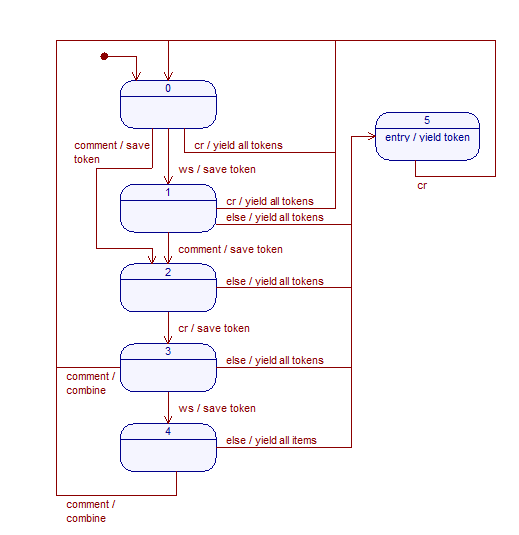
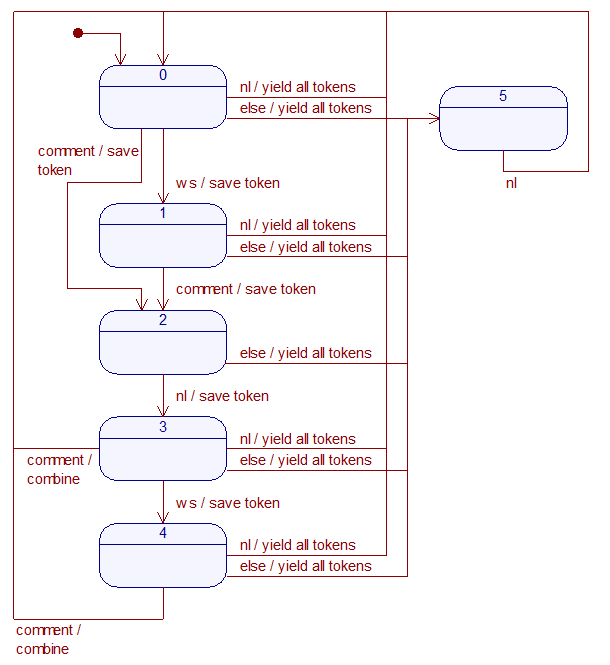
Updated diagram to reflect code Updated state machine in code to catch a few more cases Made it easier to switch between test and run code

diff --git a/pyg.py b/pyg.py
@@ -1,4 +1,3 @@
-
 # -*- coding: utf-8 -*-<br />
 # <h1>Overview</h1>
 # 
@@ -104,7 +103,7 @@
 #     The program consists of two separate portions (code to HTML and HTML
 #     to code) with a bit of glue code, supplemented with tests.<br />
 # 
-# <h2>Code to HTML</h2>
+# <h2><a name="Code_to_HTML"></a>Code to HTML</h2>
 #     The code to HTML link consists of modifications to <a href="http://pygments.org/">Pygments</a>, a wonderful source
 #     hilighter. In particular:<br />
 # <ol>
@@ -124,7 +123,7 @@ import re
 #  states,
 # this uses Pygments to do most of the work, adding only a formatter
 #  to that library. Therefore, to use this class, simply select this class
-#  as the formatter for Pygments (see example <a>below</a>).<br />
+#  as the formatter for Pygments (see an example <a href="#def_CodeToHtml">below</a>).<br />
 class CodeToHtmlFormatter(HtmlFormatter):
     # <a name="typeset_comments_in_a_proportional_font"></a>The first element of the class introduces a proportional font to the formatter. This sort of change really belongs in a <a href="http://pygments.org/docs/styles/">style</a>, but the current style <a href="http://pygments.org/docs/styles/#style-rules">framework</a> don't provide a way to specify this. Rather than introduce this change, I instead modified the way that the Pygments style was used by the formatter. Specifially, I copied the <code>_create_stylesheet</code>  routine verbatim from Pygments then added <a href="#insertedCode">code</a> to typeset comments in a proportional font. 
     def _create_stylesheet(self):
@@ -175,7 +174,7 @@ class CodeToHtmlFormatter(HtmlFormatter):
                 
     # <a name="merge_comments"></a>This routine takes tokens as its input, combining multiple lines of single-line comments separated
     # only by a newline into a single comment token. It's structured as a state machine, per the diagram below. Essentially, the machine looks for a multiline comment, which consists of: a newline, optional whitespace, a comment, a newline, optional whitespace, a comment. When this sequence is found such that the two whitespaces are identical, the two comments are combined with any intervening whitespace and the search continues. Additional comments:<br />
-    # <ul><li>Transitions away from the sequence must be handled carefully (see the diagram). In particular, <code>token_stack</code> contains a stack of tokens collected while walking through the state machines, which can be produced when the input varies from the multiline-comment path.<br /></li><li>"Whitespace" in this context does <b>not</b> include a newline. See the <code>ws</code> variable.<br /></li></ul><img alt="" src="state_machine.png" height="535" width="519" /><br />The state machine syntax: &lt;condition / action&gt;, so that cr / yield all tokens means that if a carriage return (\n character) is found, all tokens in token_stack will be yielded before moving to the next state. The additional abbreviation used: "ws" for whitespace (which does not include a newline).<br /><br />Note that the obvious alternative of doing this combining using a regular expression on the source text before tokenization doesn't work (I tried it). In particular, this removes all indications of where lines were broken earlier, making the comment a mess when going from the HTML back to code. It's possible that, with line wrapping implemented, this could be a much simpler and better approach.
+    # <ul><li>Transitions away from the sequence must be handled carefully (see the diagram). Each state may be presented with a comment, newline, whitespace, or any other token and must handle each possibility. To do this, <code>token_stack</code> contains a stack of tokens collected while walking through the state machines, which can be produced when the input varies from the multiline-comment path.<br /></li><li>"Whitespace" in this context does <b>not</b> include a newline. See the <code>ws</code> variable.<br /></li></ul><img alt="" src="state_machine.png" height="535" width="519" /><br />The state machine syntax: &lt;condition / action&gt;, so that cr / yield all tokens means that if a carriage return (\n character) is found, all tokens in token_stack will be yielded before moving to the next state. The additional abbreviation used: "ws" for whitespace (which does not include a newline).<br /><br />Note that the obvious alternative of doing this combining using a regular expression on the source text before tokenization doesn't work (I tried it). In particular, this removes all indications of where lines were broken earlier, making the comment a mess when going from the HTML back to code. It's possible that, with line wrapping implemented, this could be a much simpler and better approach.
     def _merge_comments(self, token_source):
         # Keep a history of tokens; if we can't combine then, then yield a
         # bunch of these.
@@ -196,27 +195,22 @@ class CodeToHtmlFormatter(HtmlFormatter):
                 if re.search(ws, value):
                     token_stack.append([ttype, value])
                     state = 1
-                elif value == '\n':
-                    for t in token_stack:
-                        yield t
-                    token_stack = []
-                    yield ttype, value
                 elif ttype is Token.Comment:
                     token_stack.append([ttype, value])
                     state = 2                    
                 else:
-                    yield (ttype, value)
-                    state = 5
-            elif state == 1:
-                if ttype is Token.Comment:
-                    token_stack.append([ttype, value])
-                    state = 2
-                elif value == '\n':
+                    # While the code sequence to yield all tokens is repeated frequently and hence an excellent candidate for a function, the requirement of a yield keeps it from being easily placed in a function. So, I've just used a copy and paste approach instead.
                     for t in token_stack:
                         yield t
                     token_stack = []
                     yield ttype, value
-                    state = 0
+                    state = 0 if value == '\n' else 5
+            elif state == 1:
+                # Assume we will never receive two whitespace tokens back to back.
+                assert(not re.search(ws, value))
+                if ttype is Token.Comment:
+                    token_stack.append([ttype, value])
+                    state = 2
                 else:
                     for t in token_stack:
                         yield t
@@ -224,6 +218,10 @@ class CodeToHtmlFormatter(HtmlFormatter):
                     yield ttype, value
                     state = 0 if value == '\n' else 5
             elif state == 2:
+                # For now, assume we will never receive whitespace following a comment. TODO: this could happen in C: /*blah*/ <whitespace>
+                assert(not re.search(ws, value))
+                # For now, assume we will never receive two comment tokens back to back. TODO: this could happen in C, perhaps as a /*blah*//*blah*/.
+                assert(ttype is not Token.Comment)
                 if value == '\n':
                     token_stack.append([ttype, value])
                     state = 3
@@ -250,6 +248,8 @@ class CodeToHtmlFormatter(HtmlFormatter):
                     yield ttype, value                
                     state = 0 if value == '\n' else 5
             elif state == 4:
+                # For now, assume we will never receive whitespace following a comment. TODO: this could happen in C: /*blah*/ <whitespace>
+                assert(not re.search(ws, value))
                 if ttype is Token.Comment:
                     # Combine two comments into a single comment by modifying the value of the first comment token<br />
                     # First, determine if we need to merge the previous three or the previous two entries on the stack (state transition 2, 3, 4 vs. 2, 4)
@@ -265,10 +265,10 @@ class CodeToHtmlFormatter(HtmlFormatter):
                     for t in token_stack:
                         yield t
                     token_stack = []
-                    yield ttype, value                
-                    state = 5                
+                    yield ttype, value
+                    state = 0 if value == '\n' else 5
             elif state == 5:
-                yield (ttype, value)
+                yield ttype, value
                 if value == '\n':
                     state = 0
             else:
@@ -686,10 +686,6 @@ def test(one_test):
     else:
         unittest.main()
         
-# Test / development interface
-if __name__ == '__main__a':
-    test(one_test = False)
-
 # Use the HtmlToCodeTranslator class to translate a specific file.
 def HtmlToCode(baseFileName):
     code = open(baseFileName + '.html', 'r').read()
@@ -708,7 +704,8 @@ from pygments.token import Comment
 DefaultStyle.styles[Comment] = "#408080"
 class CodeToHtmlStyle(DefaultStyle):
     pass
-    # Use Pygments with the CodeToHtmlFormatter to translate a source file to an HTML file.
+
+# <a name="def_CodeToHtml"></a>Use Pygments with the CodeToHtmlFormatter to translate a source file to an HTML file.
 def CodeToHtml(baseFileName):
     code = open(baseFileName + '.py', 'r').read()
     formatter = CodeToHtmlFormatter(full=True, nobackground=True,
@@ -722,10 +719,7 @@ def CodeToHtml(baseFileName):
     outfile.write(hi_code)
     print("Wrote " + baseFileName + '.html')
 
-# Run interface
-import os
-if __name__ == '__main__':
-    baseFileName = 'pyg'
+def convert(baseFileName):
     st_py =   os.stat(baseFileName + '.py')
     st_html = os.stat(baseFileName + '.html')
     if   st_py.st_mtime > st_html.st_mtime:
@@ -737,7 +731,8 @@ if __name__ == '__main__':
     else:
         print('Time is identical -- giving up')
 
-
-
-
-# 
+# Run interface
+import os
+if __name__ == '__main__':
+#    test(one_test = False)
+    convert('pyg')
